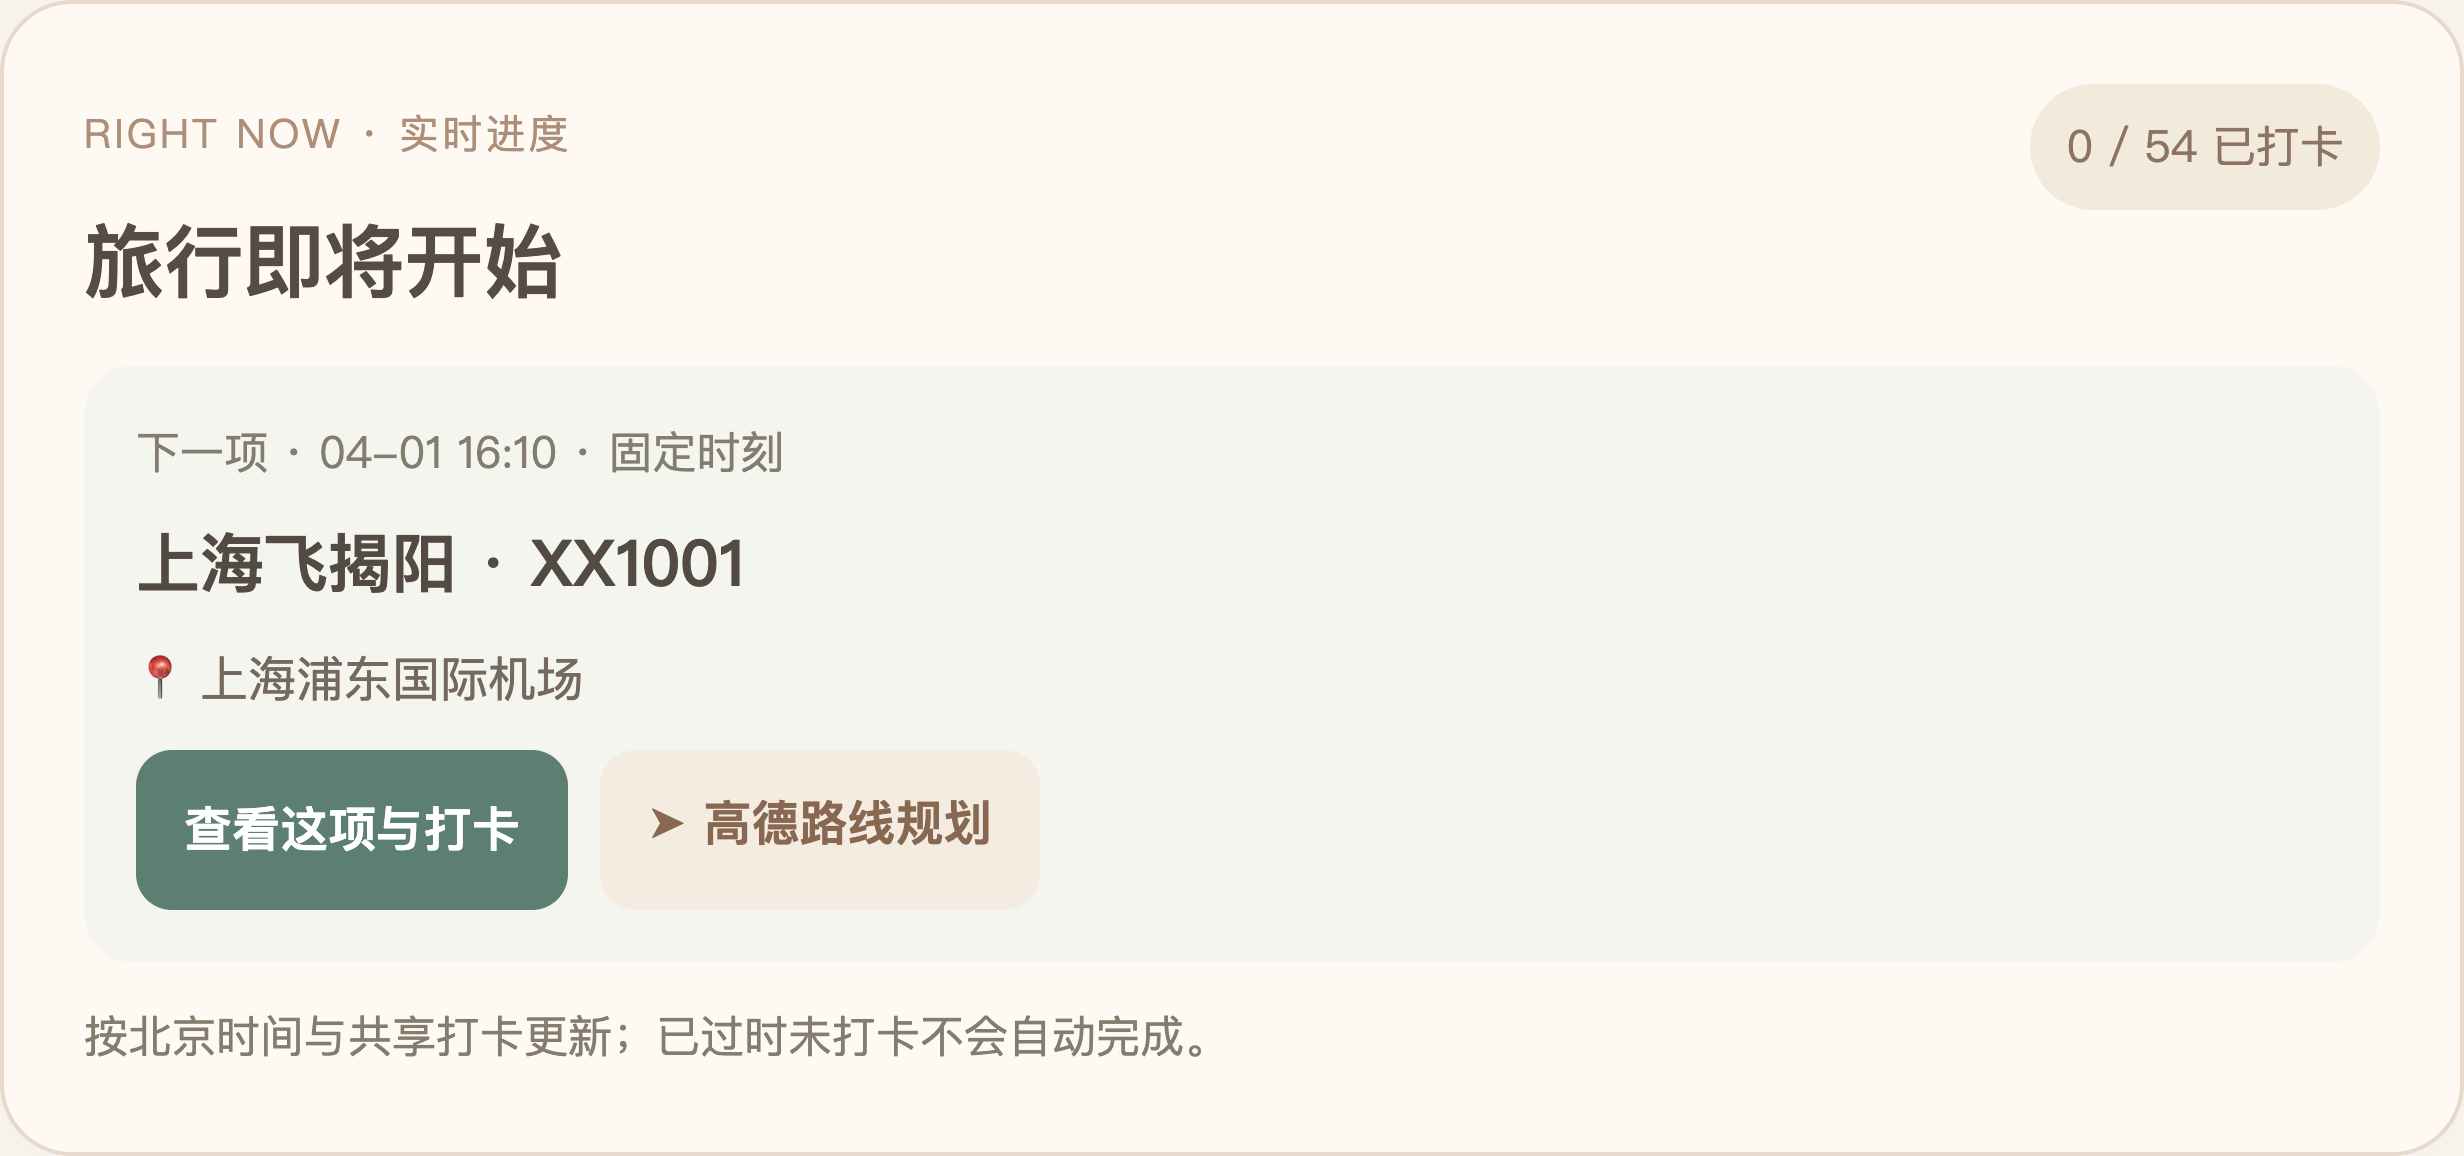
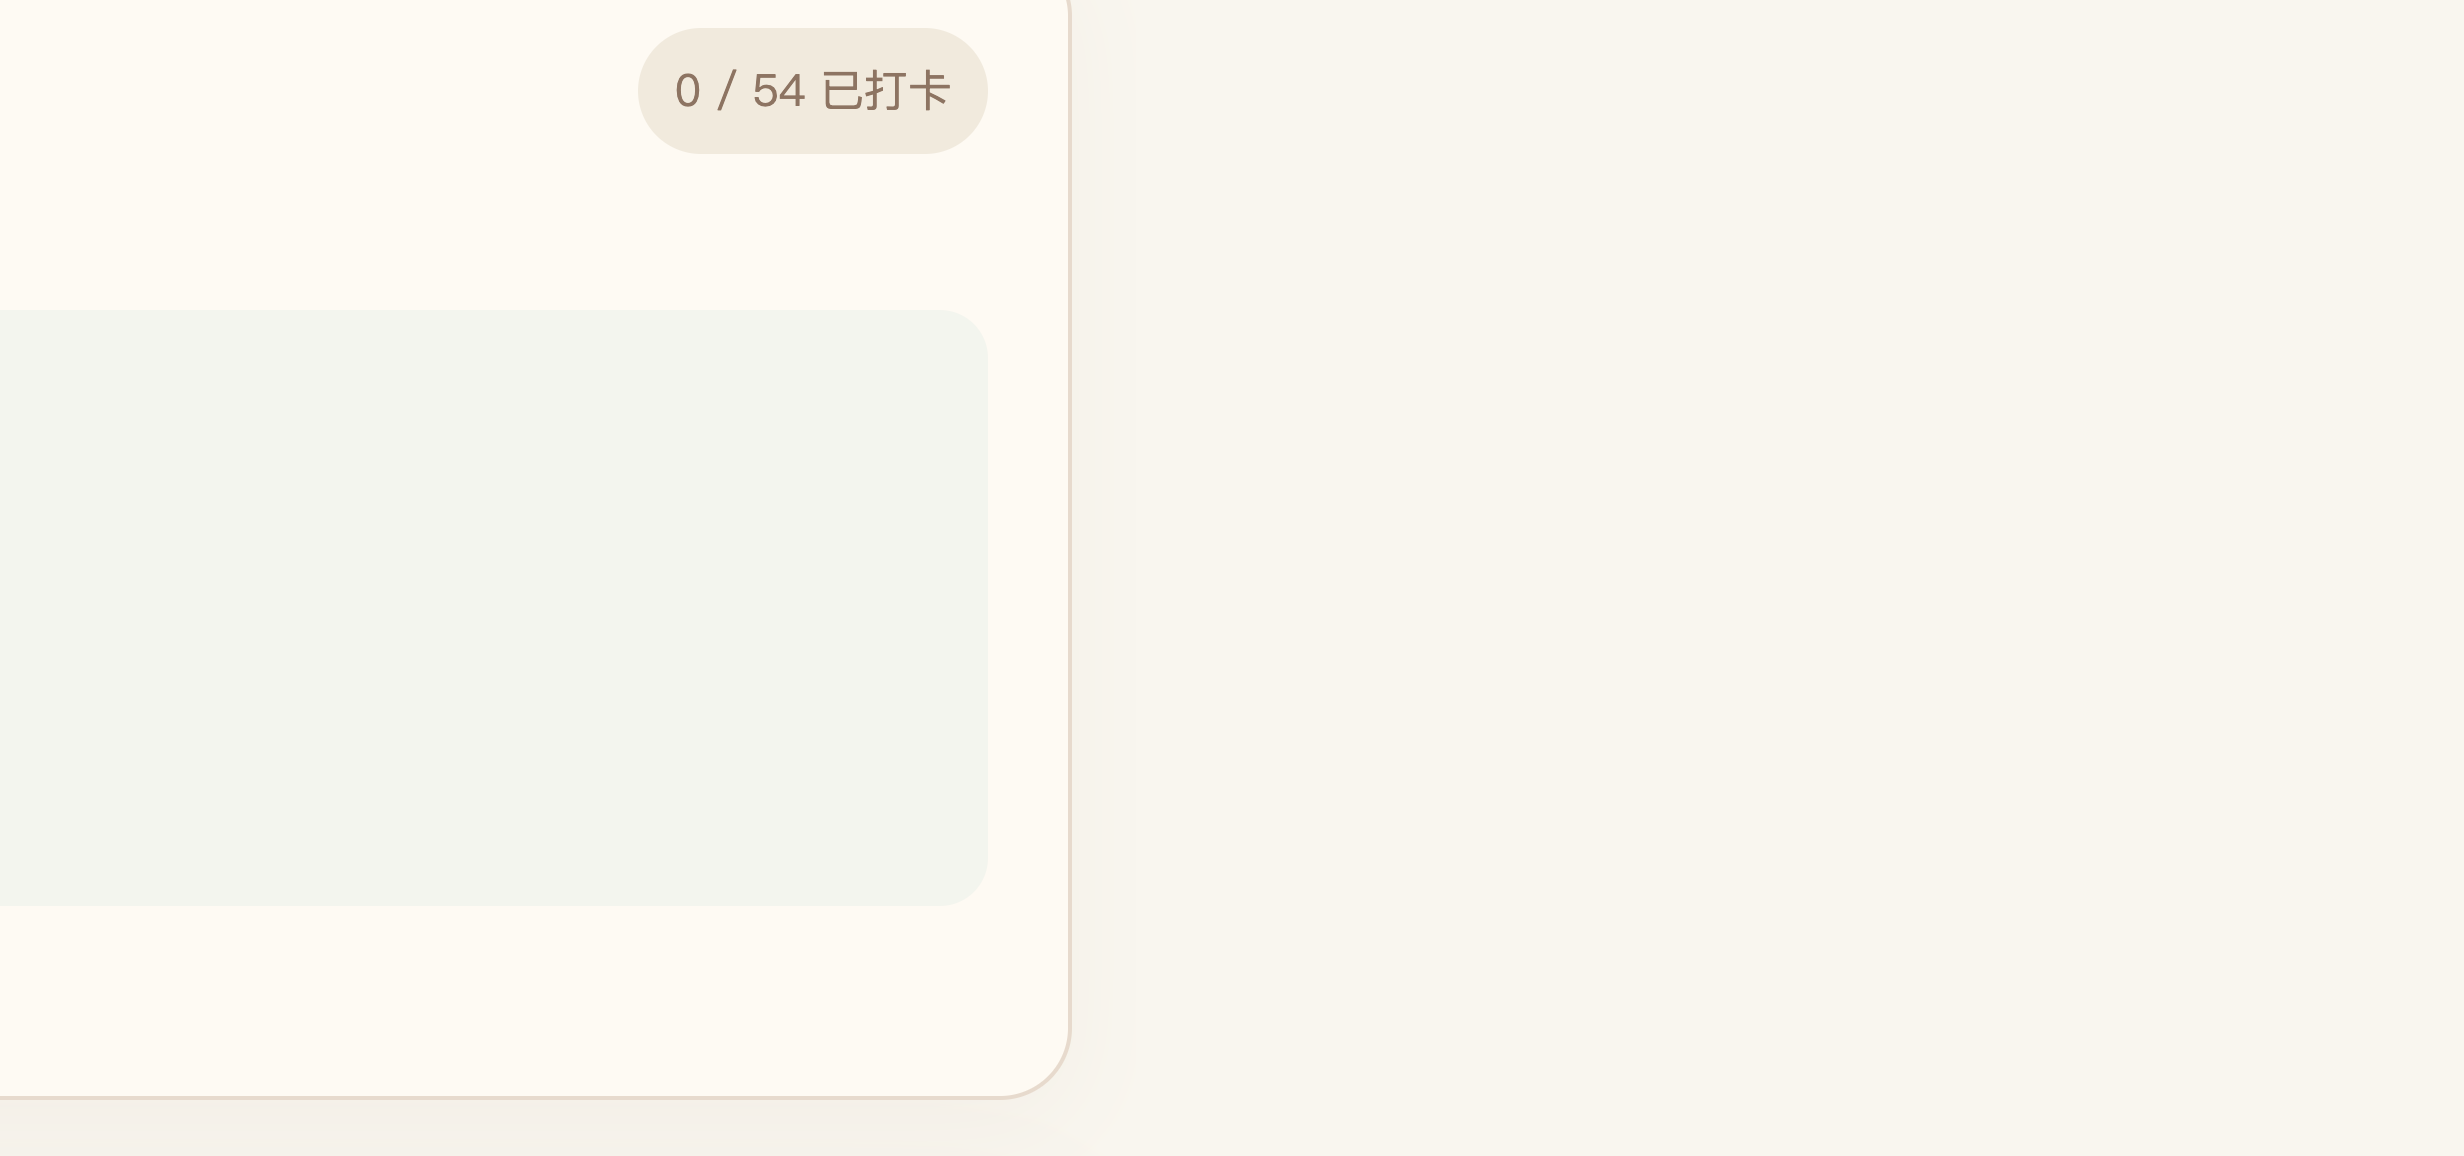
Use actual hotels and flight numbers in example

diff --git a/README.md b/README.md
@@ -2,7 +2,7 @@
 
 # 一键生成 · 省心旅行攻略
 
-### 把攻略交给 AI，把时间留给旅行。
+### 把攻略换成 AI，把时间留给旅行。
 
 **多平台信息整理 · 顺路安排景点与餐厅 · 手机旅行手账 · 一张图看懂路线**
 
@@ -82,11 +82,11 @@ Copy-Item -Recurse travel-itinerary-skill\travel-itinerary "$HOME\.codex\skills\
 
 ## 📱 潮汕旅行案例：实际需求如何变成攻略？
 
-这次实践以双人潮汕之行为例：从潮州古城开始，串联开元寺、古城巷子和广济桥，再前往汕头游览西堤公园与小公园骑楼，最后安排南澳岛看海。餐饮穿插在同一片游览区域中，跨城顺序、体力、步行和预留时间一起考虑，尽量少走回头路。
+这次实践以双人潮汕之行为例（航班号：去程 9C7683，返程 9C8678）：从潮州古城开始，串联开元寺、古城巷子和广济桥，再前往汕头游览西堤公园与小公园骑楼，最后安排南澳岛看海。餐饮穿插在同一片游览区域中，跨城顺序、体力、步行和预留时间一起考虑，尽量少走回头路。
 
 ### 原版网页 · 功能展示
 
-以下截图来自潮汕网页的本地脱敏副本，按功能选择代表性模块；酒店、航班、日期及部分时间已替换为示例，订单金额和部分私人备注已隐藏；预算展示数值为虚构示例。点击图片可查看原图。
+以下截图来自潮汕网页的本地脱敏副本，按功能选择代表性模块；酒店名称和航班号采用实际案例；日期和部分时间替换为示例，订单金额和部分私人备注已隐藏，预算数值为虚构示例。点击图片可查看原图。
 
 #### 🗺 行程卡片与地图导航
 
@@ -120,9 +120,9 @@ Copy-Item -Recurse travel-itinerary-skill\travel-itinerary "$HOME\.codex\skills\
 
 #### 🛏 住宿一览
 
-集中展示旅行中的住宿位置和入住天数，方便随时查看或进入地图核对。截图中的酒店与日期均为示例，已确认订单的真实金额未公开。
+集中展示旅行中的住宿位置和入住天数，方便随时查看或进入地图核对。截图展示实际选择的酒店，入住日期为示例，已确认订单的真实金额未公开。
 
-<p align="center"><a href="docs/case-feature-stay.png"><img src="docs/case-feature-stay.png" width="400" alt="住宿一览：两处示例酒店及入住天数"></a></p>
+<p align="center"><a href="docs/case-feature-stay.png"><img src="docs/case-feature-stay.png" width="400" alt="住宿一览：两处酒店及示例入住日期"></a></p>
 
 #### 🍽 每天吃什么
 
@@ -156,7 +156,7 @@ Copy-Item -Recurse travel-itinerary-skill\travel-itinerary "$HOME\.codex\skills\
 
 ### 住宿与美食如何筛选？
 
-住宿按**位置方便、舒适、性价比**优先，案例选择了潮州古城附近和汕头东区的舒适型连锁酒店，以减少搬行李与跨区往返；具体酒店名称和订单信息不公开。舒适度、房价和入住条件仍以实际订单及住客需求为准。
+住宿按**位置方便、舒适、性价比**优先，案例选择了潮州古城附近和汕头东区的舒适型连锁酒店，以减少搬行李与跨区往返；案例选择如家商旅（金标）潮州古城牌坊街店及桔子酒店（汕头金沙东路店），订单金额不公开。舒适度、房价和入住条件仍以实际订单及住客需求为准。
 
 餐饮结合中文互联网可访问的旅行攻略、地图、商家信息和食客评价筛选，**优先寻找有经营记录的地方特色老店**，再按路线、口味、排队与营业时间取舍。部分候选仅有平台或旅游目录记录，历史、近期经营或评价证据不够充分，不能一概称为已证实的老店，也不保证所有资料来自小红书、抖音或大众点评。可参考案例当时使用的[潮州美食资料](https://www.czcityofgastronomy.com/detail/1460)、[广济桥游览信息](https://static.nfnews.com/content/202601/19/c12092364.html)及[汕头西堤公园资料](https://www.shantou.gov.cn/stscgj/gkmlpt/content/2/2398/mpost_2398313.html)，出行前仍应重新核验。
 
@@ -185,7 +185,7 @@ Copy-Item -Recurse travel-itinerary-skill\travel-itinerary "$HOME\.codex\skills\
 - 远期天气不应当作准确预报；海上活动等需以当天条件和服务商通知为准。
 - 共享网页的隐私与编辑权限由实际部署设置决定；可编辑链接可能被持有者修改。
 - 微信打开高德 App 的能力、国内网络访问、双设备同步及托管费用取决于平台和设备，需实测；Skill 本身不提供免费服务器、数据库或域名。
-- 未经用户要求不会公开个人旅行订单、酒店、航班或共享链接。
+- 未经用户要求不会公开个人旅行订单、酒店、航班或共享链接；本案例中的酒店和航班号经用户同意展示。
 
 ## 📂 文件结构
 
